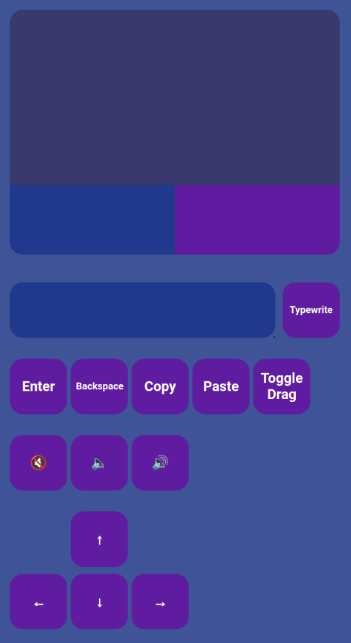
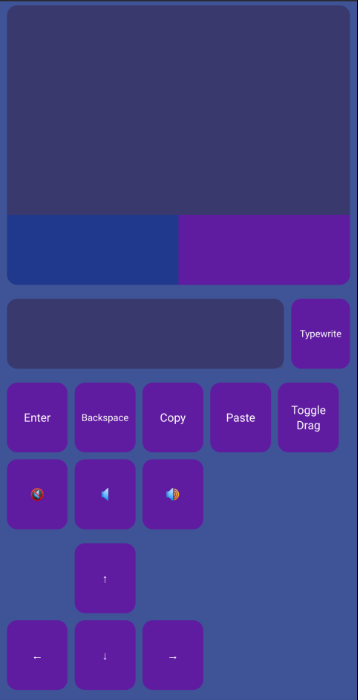
Rewrote all of the CSS

Changed region(s): [[0.0, 0.0, 1.0, 1.0], [0.057, 0.591, 0.1709, 0.6221]]

diff --git a/styles.css b/styles.css
@@ -1,237 +1,86 @@
-body, html { 
-    overflow-x: hidden; 
-    overflow-y: auto;
+:root {
+    --primary-color: #d3a4ff;
+    --primary-color-hover: #d3a4ff;
+    --secondary-color: #698bff;
+    --secondary-color-hover: #5677e3;
+    --background-color: #c3c3fd;
+    --text-color: black;
+    --body-color: white;
+}
+@media (prefers-color-scheme: dark) {
+    :root {
+        --primary-color: #601ca0;
+        --primary-color-hover: #360e5c;
+        --secondary-color: #20398d;
+        --secondary-color-hover: #142661;
+        --background-color: #39396e;
+        --text-color: white;
+        --body-color: #3f5497;
+    }
 }
 body {
-    box-sizing: border-box;
-    margin: 0;
-    padding: 1rem;
-    background-color: #c3c3fd;
+    background-color: var(--body-color);
+}
+.border-radius {
+    border: 0px;
+    border-radius: 12px;
+    outline: none;
 }
 .touchpad {
     width: 100%;
-    background-color: rgb(163, 163, 255);
-    border-radius: 15px;
-    box-sizing: border-box;
-    height: calc(40vh - 2.5rem);
-    position: relative;
     overflow: hidden;
+    margin-bottom: 2vh;
 }
-.touch {
-    height: calc(50vh - 2.5rem);
-}
-.leftmouse {
-    height: calc(10vh);
-    background-color: rgb(105, 139, 255);
-    width: 50%;
-    float: left;
-    left: 0;
-    bottom: 0;
-    position: absolute;
-    box-sizing: border-box;
-}
-.rightmouse {
-    height: calc(10vh);
-    background-color: rgb(184, 108, 255);
-    width: 50%;
-    right: 0;
-    bottom: 0;
-    position: absolute;
-    box-sizing: border-box;
-}
-.keyboard {
-    margin-top: 2rem;
-    border-radius: 15px;
+.touchpad .touch {
     width: 100%;
-    color: black;
-    background-color: rgb(163, 163, 255);
-    border: none;
-    padding: 0.5rem;
+    height: 30vh;
+    background-color: var(--background-color);
+}
+.touchpad .leftmouse, .touchpad .rightmouse {
+    width: 50%;
+    background-color: var(--secondary-color);
+    height: 10vh;
+}
+.flex-box {
+    display: flex;
+}
+.flex-box.wrap {
+    flex-wrap: wrap;
+}
+.flex-box.space-between {
+    margin: 1vh -1vw;
+}
+.flex-box.space-between .keys {
+    margin: auto 1vw 1vh 1vw;
+}
+.flex-box.space-between .keyboard {
+    margin: 0px 1vw 1vh 1vw;
+}
+.flex-box .keys {
+    width: 17vw;
+    height: 10vh;
+    margin-top: auto;
+    color: var(--text-color);
+}
+.flex-box .keyboard {
+    width: 80vw;
+    background-color: var(--background-color);
+    padding: 10px;
     box-sizing: border-box;
-    height: 4rem;
-    width: calc(100% - 18vw);
-    vertical-align: middle;
-    outline: none;
-    font-size: 2rem;
+    color: var(--text-color);
 }
-.send {
-    position: absolute;
-    right: 1rem;
-}
-.keys {
-    width: calc(16vw);
-    vertical-align: middle;
-    height: 4rem;
-    margin-top: 1.5rem;
-    background-color: rgb(187, 113, 255);
-    color: white;
-    border: none;
-    border-radius: 15px;
-    font-weight: bold;
-    font-size: 1rem;
-}
-.backspace, .send {
-    font-size: 0.7rem;
-}
-.send {
-    margin-top: 2rem;
-}
-.keys:active { 
-    background-color: rgb(71, 104, 212);
-}
-.keys:active, .keys[data-active="true"] {
-    background-color: rgb(127, 47, 201);
-}
-.up-down {
-    display: inline-block;
-    vertical-align: bottom;
-}
-.up-down .inner {
+.flex-box .up-down > .inner {
     display: flex;
     flex-direction: column;
 }
-
-.up-down .inner .down {
-    margin-top: 0.5rem;
+.keys, .touchpad .rightmouse {
+    background-color: var(--primary-color);
 }
-
-@media (prefers-color-scheme: dark) {
-    body {
-        background-color: rgb(63, 84, 151);
+.touchpad .rightmouse:active, .keys:active, .keys[data-active="true"] {
+    background-color: var(--primary-color-hover);
+}
+@media (max-width: 768px) {
+    .long-text {
+        font-size: 0.7em;
     }
-    .touchpad {
-        background-color: rgb(57, 57, 110);
-    }
-    .leftmouse {
-        background-color: rgb(32, 57, 141);
-    }
-    .rightmouse {
-        background-color: rgb(96, 28, 160);
-    }
-    .keyboard {
-        color: white;
-        background-color: rgb(32, 57, 141);
-    }
-    .keys {
-        color: white;
-        background-color: rgb(96, 28, 160);
-    }
-    .leftmouse:active { 
-        background-color: rgb(20, 38, 97);
-    }
-    .rightmouse:active, .keys:active, .keys[data-active="true"] {
-        background-color: rgb(54, 14, 92);
-    }
-}
-
-body.lunar {
-    background-color: #ebe9da;
-    font-family: Tahoma;
-}
-
-.lunar .touchpad {
-    background: transparent;
-    border-radius: 0;
-}
-
-.lunar .touch {
-    border: 1px solid #c4cbd1;
-    border-radius: 0;
-    background-color: white;
-    margin-bottom: 10px;
-    height: calc(50vh - 8.25rem);
-}
-
-.lunar .leftmouse {
-    background: linear-gradient(#fdfdfd, #f0f0ea);
-    border: 1px solid;
-    border-radius:5px;
-    font-weight: normal;
-    width: 49%;
-}
-
-.lunar .rightmouse {
-    background: linear-gradient(#fdfdfd, #f0f0ea);
-    border: 1px solid;
-    border-radius:5px;
-    font-weight: normal;
-    width: 49%;
-}
-
-.lunar .keys {
-    color: black;
-    background: linear-gradient(#fdfdfd, #f0f0ea);
-    border: 1px solid;
-    border-radius:5px;
-    font-weight: normal;
-}
-.lunar .leftmouse:active { 
-    background: linear-gradient(#fdfdfd, #f0f0ea);
-    box-shadow: inset 0em 0em 1rem #eebe68;
-}
-.lunar .keys:active, .lunar .keys[data-active="true"], .lunar .rightmouse:active {
-    background: linear-gradient(#fdfdfd, #f0f0ea);
-    box-shadow: inset 0em 0em 1rem #eebe68;
-}
-
-.lunar .keyboard {
-    border: 1px solid #c4cbd1;
-    border-radius: 0;
-    background-color: white;
-    color: black;
-}
-
-@font-face {
-    font-family: Rubik;
-    src: url(fonts/Rubik-VariableFont_wght.ttf);
-}
-
-body.foundation {
-    background-color: white;
-}
-
-.foundation .touchpad {
-    background: transparent;
-    box-shadow: 0 0 .3rem 0 rgba(0,0,0,.25);
-}
-
-.foundation .leftmouse {
-    background: white;
-    border-top: 2px solid #e6e6e6;
-    border-right: 1px solid #e6e6e6;
-}
-
-.foundation .rightmouse {
-    background: white;
-    border-top: 2px solid #e6e6e6;
-    border-left: 1px solid #e6e6e6;
-}
-
-.foundation .backspace {
-    font-size: 0.6rem;
-}
-
-.foundation .keys {
-    background: rgb(0, 69, 173);
-    border-radius: .5rem;
-    font-family: 'Rubik';
-}
-.foundation .leftmouse:active,
-.foundation .rightmouse:active { 
-    background: #e9e9ed;
-}
-.foundation .keys:active, .foundation .keys[data-active="true"] {
-    background: #0052cc;
-}
-
-.foundation .keyboard {
-    border: 3px solid #999;
-    border-radius: 0;
-    background-color: white;
-    color: black;
-    font-family: 'Rubik';
-}
-
-.foundation .keyboard:focus {
-    outline: solid 2px #0052cc;
 }

diff --git a/controls.html b/controls.html
@@ -2,35 +2,38 @@
 <html>
     <head>
         <meta name="viewport" content="width=device-width, height=device-height,  initial-scale=1.0, user-scalable=no;user-scalable=0;"/>
-        <link rel="stylesheet" type="text/css" href="styles.css?t2" />
+        <link rel="stylesheet" type="text/css" href="styles.css" />
     </head>    
     <body >
-        <div class="touchpad">
+        <div class="touchpad flex-box wrap border-radius">
             <div class="touch"></div>
             <div class="ui leftmouse" data-send="leftclick"></div>
             <div class="ui rightmouse" data-send="rightclick"></div>
         </div>
-        <textarea class="keyboard"></textarea>
-        <button class="send keys">Typewrite</button>
-        <br/>
-        <button class="ui keys" data-send="enter">Enter</button>
-        <button class="ui keys backspace" data-send="backspace">Backspace</button>
-        <button class="ui keys" data-hotkey="ctrl,c">Copy</button>
-        <button class="ui keys" data-hotkey="ctrl,v" >Paste</button>
-        <button class="ui keys" data-toggle="drag">Toggle Drag</button>
-        <br/>
-        <button class="ui keys" data-send="volumemute">🔇</button>
-        <button class="ui keys" data-send="volumedown">🔈</button>
-        <button class="ui keys" data-send="volumeup">🔊</button>
-        <br/>
-        <button class="ui keys" data-send="left">←</button>
-        <div class="up-down">
-            <div class="inner">
-                <button class="ui keys up" data-send="up">↑</button>
-                <button class="ui keys down" data-send="down">↓</button>
-            </div>
+        <div class="flex-box space-between">
+            <textarea class="keyboard border-radius"></textarea>
+            <button class="send keys border-radius long-text">Typewrite</button>
         </div>
-        <button class="ui keys" data-send="right">→</button>
-        <script src="script.js?t2"></script>
+        <div class="flex-box wrap space-between">
+            <button class="ui keys border-radius" data-send="enter">Enter</button>
+            <button class="ui keys border-radius backspace long-text" data-send="backspace" >Backspace</button>
+            <button class="ui keys border-radius" data-hotkey="ctrl,c">Copy</button>
+            <button class="ui keys border-radius" data-hotkey="ctrl,v" >Paste</button>
+            <button class="ui keys border-radius" data-toggle="drag">Toggle Drag</button>
+            <button class="ui keys border-radius" data-send="volumemute">🔇</button>
+            <button class="ui keys border-radius" data-send="volumedown">🔈</button>
+            <button class="ui keys border-radius" data-send="volumeup">🔊</button>
+        </div>
+        <div class="flex-box space-between">
+            <button class="ui keys border-radius" data-send="left">←</button>
+            <div class="up-down">
+                <div class="inner">
+                    <button class="ui keys border-radius up" data-send="up">↑</button>
+                    <button class="ui keys border-radius down" data-send="down">↓</button>
+                </div>
+            </div>
+            <button class="ui keys border-radius" data-send="right">→</button>
+        </div>
+        <script src="script.js"></script>
     </body>
 </html>

diff --git a/script.js b/script.js
@@ -1,4 +1,4 @@
-(async function () {
+(async () => {
     let theme
     if ((theme = new URLSearchParams(window.location.search).get('theme')) !== undefined)
         document.body.setAttribute('class', theme)
@@ -58,4 +58,4 @@
         // clear out the position  object and the isTouching variable
         state = { x: 0, y: 0, isTouching: false, isScrolling: false, lastTimeSent: state.lastTimeSent }
     })
-}())
+})()
